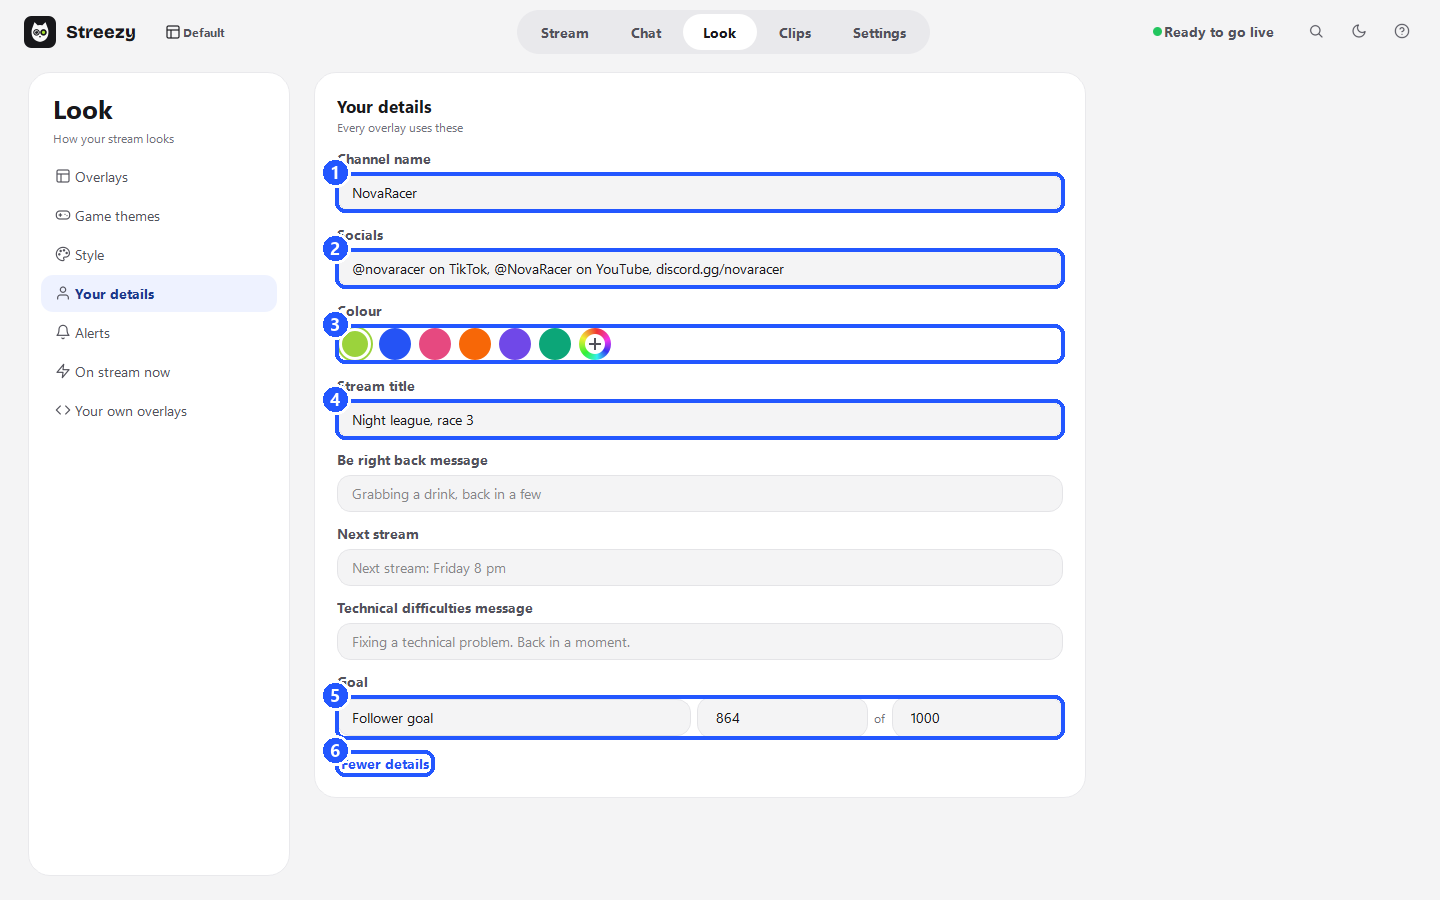
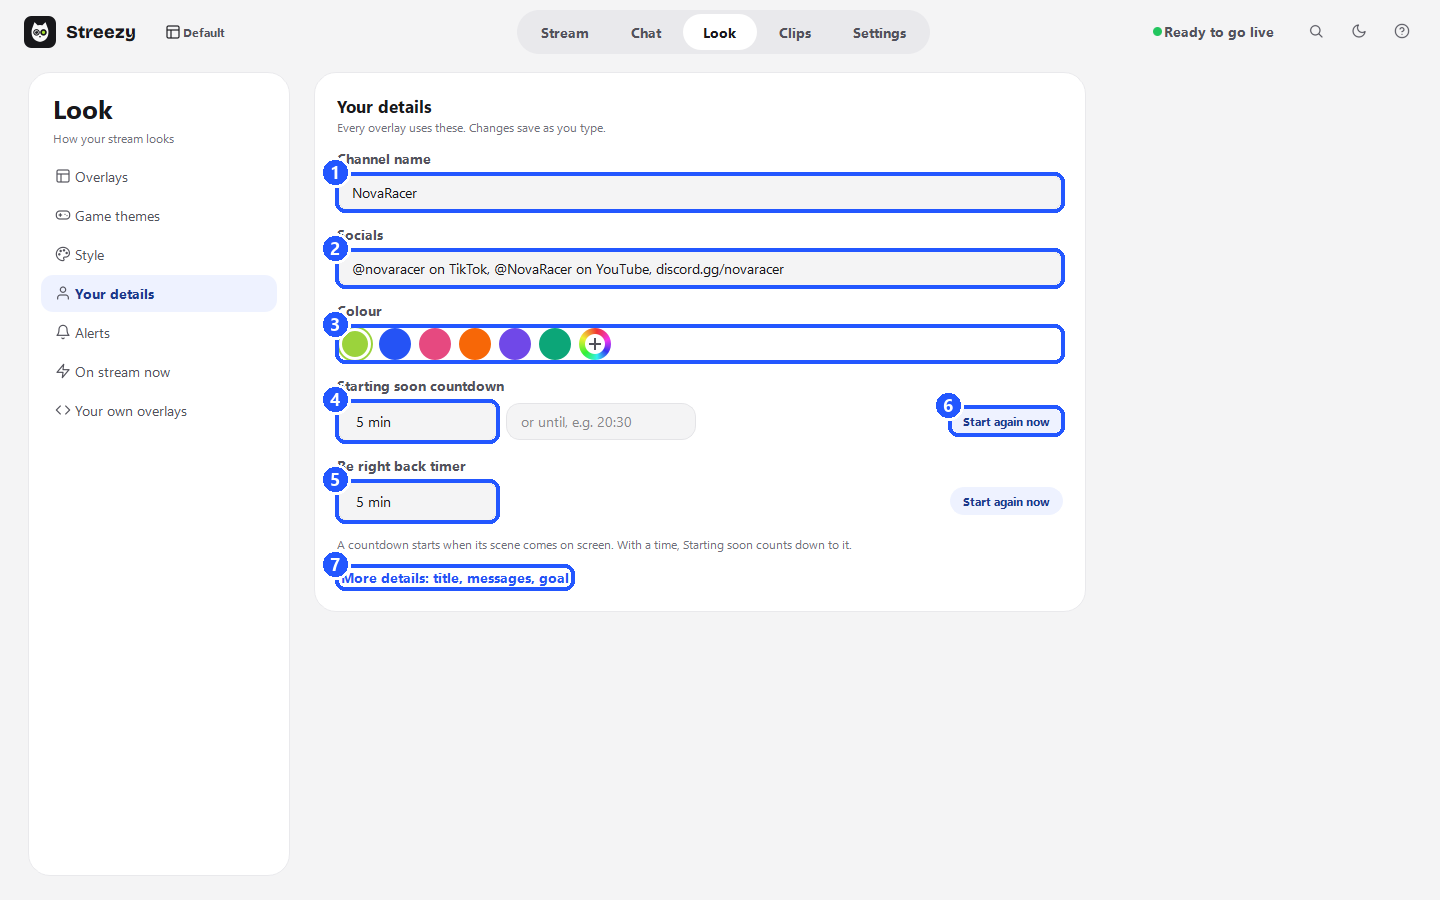
Update the Streezy page and screenshots

diff --git a/guide/streezy-guide.md b/guide/streezy-guide.md
@@ -453,7 +453,7 @@ and the socials rotator, viewers and clock, recent events, a framed webcam and t
 
 ## 10. Game themes
 
-A **game theme** is a set of five overlays drawn for the kind of game you play: **Starting soon**, **Be right back**, **Ending**, a **webcam frame** and **alerts**. There are 24, from tactical shooters to cozy farming games. The art is Streezy's own: no game's logo, characters or artwork are used.
+A **game theme** is a set of five overlays drawn for the kind of game you play: **Starting soon**, **Be right back**, **Ending**, a **webcam frame** and **alerts**. There are 26, from tactical shooters to cozy farming games. The art is Streezy's own: no game's logo, characters or artwork are used.
 
 ![Look: Game themes](images/look-game-themes.png)
 
@@ -461,7 +461,7 @@ A **game theme** is a set of five overlays drawn for the kind of game you play: 
 2. **Find your game:** type its name.
 3. **Click a theme** to see its five pieces.
 
-The search understands the names people really type, short or long: *valorant*, *cs2*, *fortnite*, *pubg*, *bgmi*, *free fire*, *cod*, *warzone*, *apex*, *lol*, *dota*, *minecraft*, *roblox*, *gta*, *rdr2*, *f1*, *forza*, *rocket league*, *fifa*, *fc 25*, *nba 2k*, *dbd*, *phasmo*, *elden ring*, *wow*, *genshin*, *tekken*, *among us*, *rust*, *stardew*, *sea of thieves*, *destiny*, *hearthstone* and many more. A kind of game works too: *shooter*, *racing*, *horror*, *football*.
+The search understands the names people really type, short or long: *valorant*, *cs2*, *fortnite*, *pubg*, *bgmi*, *free fire*, *cod*, *warzone*, *apex*, *lol*, *dota*, *minecraft*, *roblox*, *gta*, *gta 6*, *gta online*, *rdr2*, *f1*, *forza*, *rocket league*, *fifa*, *fc 25*, *nba 2k*, *dbd*, *phasmo*, *elden ring*, *wow*, *genshin*, *tekken*, *among us*, *rust*, *stardew*, *sea of thieves*, *destiny*, *hearthstone* and many more. A kind of game works too: *shooter*, *racing*, *horror*, *football*.
 
 ![Searching for a game](images/look-game-search.png)
 
@@ -478,7 +478,9 @@ The search understands the names people really type, short or long: *valorant*, 
 | Legends | Apex Legends, Overwatch, Marvel Rivals |
 | Rift | League of Legends, Dota 2, Mobile Legends |
 | Blocks | Minecraft, Roblox |
-| City life | GTA V, GTA RP, Red Dead |
+| Neon coast | GTA 6 |
+| Heist | GTA 5, GTA Online |
+| City life | GTA RP, GTA V, Red Dead |
 | Turbo | Forza, F1, Gran Turismo |
 | Rocket ball | Rocket League |
 | Matchday | EA FC, eFootball |
@@ -503,11 +505,15 @@ The search understands the names people really type, short or long: *valorant*, 
 1. **Click a picture** to watch that piece move in your web browser, with a countdown and sample alerts.
 2. **Add** puts one piece into the scene you are on. If that scene already has a screen or alerts of the same kind, the older one is hidden (not deleted), so two never sit on top of each other.
 3. The **webcam frame** goes round your webcam, wherever it is in the scene.
-4. **Set up my scenes with it** does the whole job at once:
+   Once a piece is in the scene, its button turns green and reads **✓ Added**; pieces you already use in other scenes read **✓ In use**.
+4. **Use this theme in all my scenes** does the whole job at once. First it lists each scene and what it will get, and nothing changes until you press **Use theme**:
    - **Starting soon**, **Be right back** and **Ending** go into the scenes with those names (Streezy also understands *intro*, *brb*, *break*, *outro* and the like),
    - the **alerts** go into every other scene,
    - the **webcam frame** goes round the camera in every scene that has one,
    - and the older screens, alerts and frames in those scenes are hidden, not deleted. Switch them back on under **In this scene** if you change your mind.
+
+   Afterwards the button reads **✓ Using this theme in 5 scenes** (or however many you have).
+5. **Countdowns** at the bottom shows how long Starting soon and Be right back count down. Click it to change them ([section 12](#12-your-details)).
 
 The theme's names and colours follow **Your details** ([section 12](#12-your-details)), like every overlay.
 
@@ -566,11 +572,19 @@ Fill these in once and every overlay and game theme uses them. Open **Look > You
 1. **Channel name:** shown on your screens and name tag.
 2. **Socials:** your handles, separated by commas, for example `@you on TikTok, discord.gg/you`.
 3. **Colour:** the accent colour of your overlays. The last circle lets you pick any colour.
-4. **Stream title:** what today's stream is about. **Go live** asks for it too.
-5. **Goal:** a label and numbers for the goal bar, for example *Follower goal 864 of 1000*.
-6. **More details** opens the title, the **Be right back message**, **Next stream** (shown on the Ending screen, for example "Next stream: Friday 8 pm"), the **Technical difficulties message** and the goal. **Fewer details** closes them again.
+4. **Starting soon countdown:** how many minutes it counts down, or a time to count down to, such as *20:30*.
+5. **Be right back timer:** how many minutes it counts down.
+6. **Start again now** restarts that countdown on every screen showing it, even while you are live.
+7. **More details** opens the rest. **Fewer details** closes them again.
+   - **Stream title:** what today's stream is about. **Go live** asks for it too.
+   - **Be right back message.**
+   - **Next stream:** shown on the Ending screen, for example "Next stream: Friday 8 pm".
+   - **Technical difficulties message.**
+   - **Goal:** a label and numbers for the goal bar, for example *Follower goal 864 of 1000*.
 
 Changes save as you type, and overlays update straight away, even while you are live.
+
+> **Countdowns** work on every Starting soon and Be right back screen: the built-in looks and all the game themes. A countdown starts again each time its scene comes on screen. You can also right-click a countdown in the Stream page preview for **Countdown length…** and **Start the countdown again**.
 
 ## 13. Alerts
 

diff --git a/README.md b/README.md
@@ -20,7 +20,7 @@ vertical at once. It's set up in two minutes, with no watermark, no subscription
 | 📱 **Horizontal and vertical together** | A second 9:16 canvas with its own layouts for Shorts, TikTok and Reels, streamed alongside your normal one. |
 | ⚡ **Two-minute setup** | The setup checks your PC and internet, suggests a quality, and builds your scenes: Starting soon, your main scene, Be right back and Ending, with overlays and alerts. |
 | 🎙 **Your mic, your call** | Always on, push to talk, off stream, or **only when you press your game's own voice key**. Talk to friends on Discord without viewers hearing, and capture just your game so calls and music stay off stream. |
-| 🎨 **Overlays** | 20 built-in overlays in 25 looks that follow your name and colour, and **24 game themes** (120 overlays) for the games you stream: type your game's name to find yours. Import **any folder of HTML overlays**, including kits made for OBS. Their control panels open in Streezy, and the event bridge sends them your follows, subs, raids and tips. |
+| 🎨 **Overlays** | 20 built-in overlays in 25 looks that follow your name and colour, and **26 game themes** (130 overlays) for the games you stream: type your game's name to find yours. Import **any folder of HTML overlays**, including kits made for OBS. Their control panels open in Streezy, and the event bridge sends them your follows, subs, raids and tips. |
 | 💬 **Chat and alerts** | Twitch, YouTube and Kick chat in one list, with no sign-in needed to read it. Alerts for follows, subs, gifts, raids, bits, Super Chats, members and tips. Includes a chat bot, link holding and blocked words. |
 | ✂ **Clips and recordings** | One key saves the last moments as a clip. Recordings are crash-safe MP4 with separate audio tracks for editing. |
 | 📊 **Stream reports** | After every stream: dropped frames, chat, new followers, the bitrate each platform received, and plain-language advice. |
